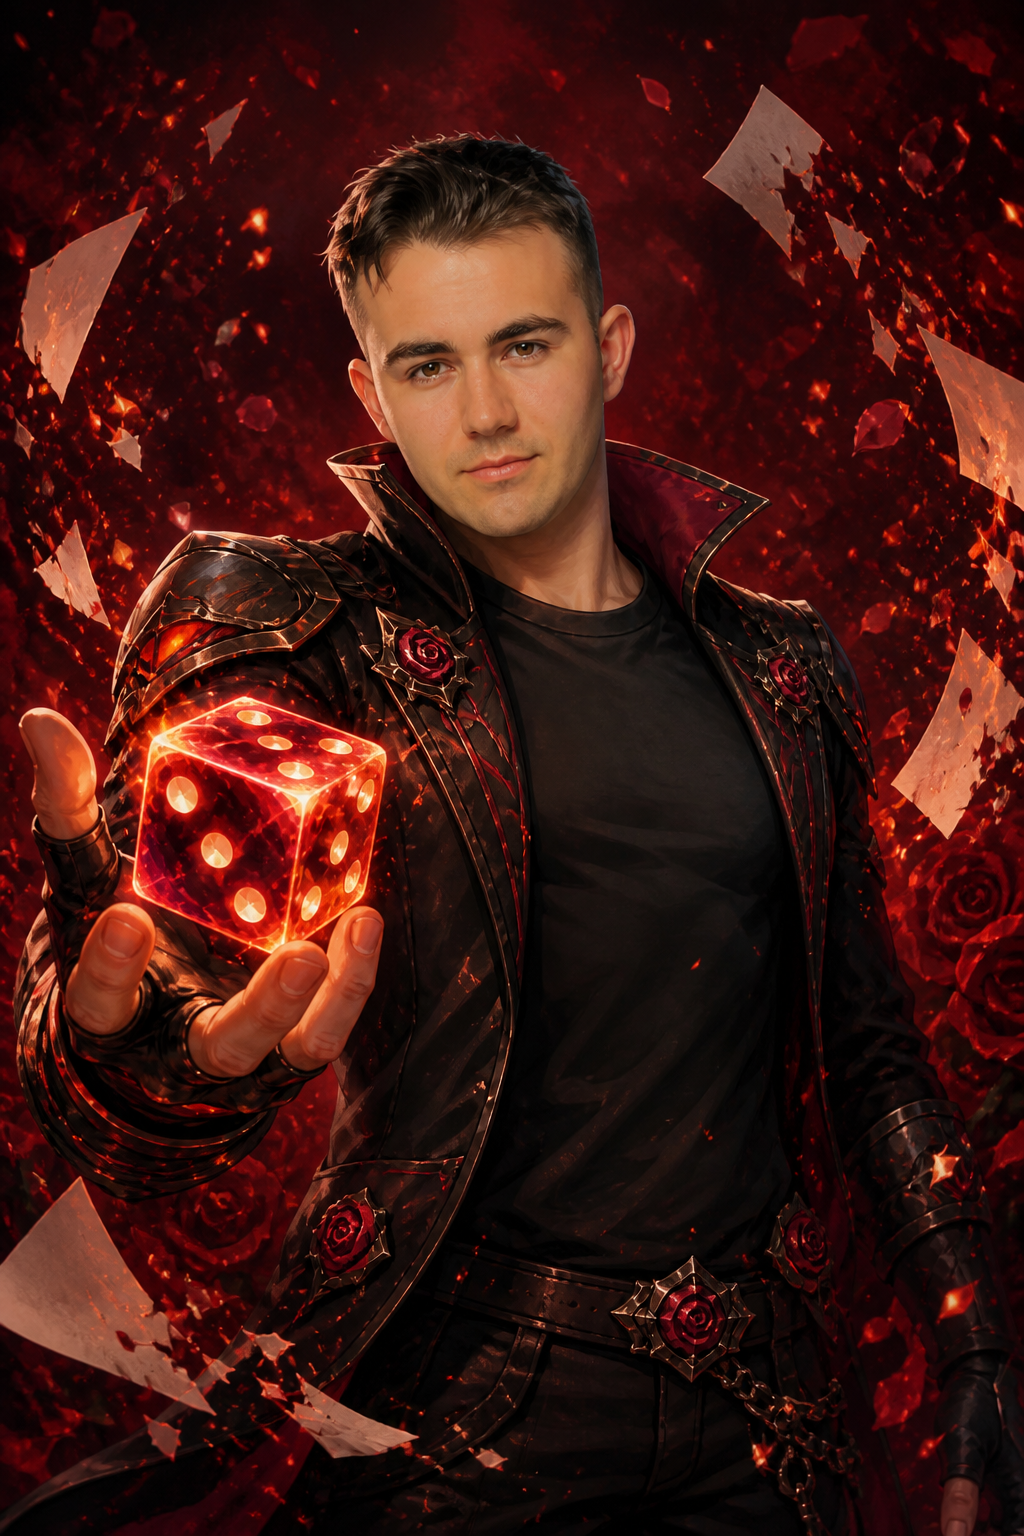
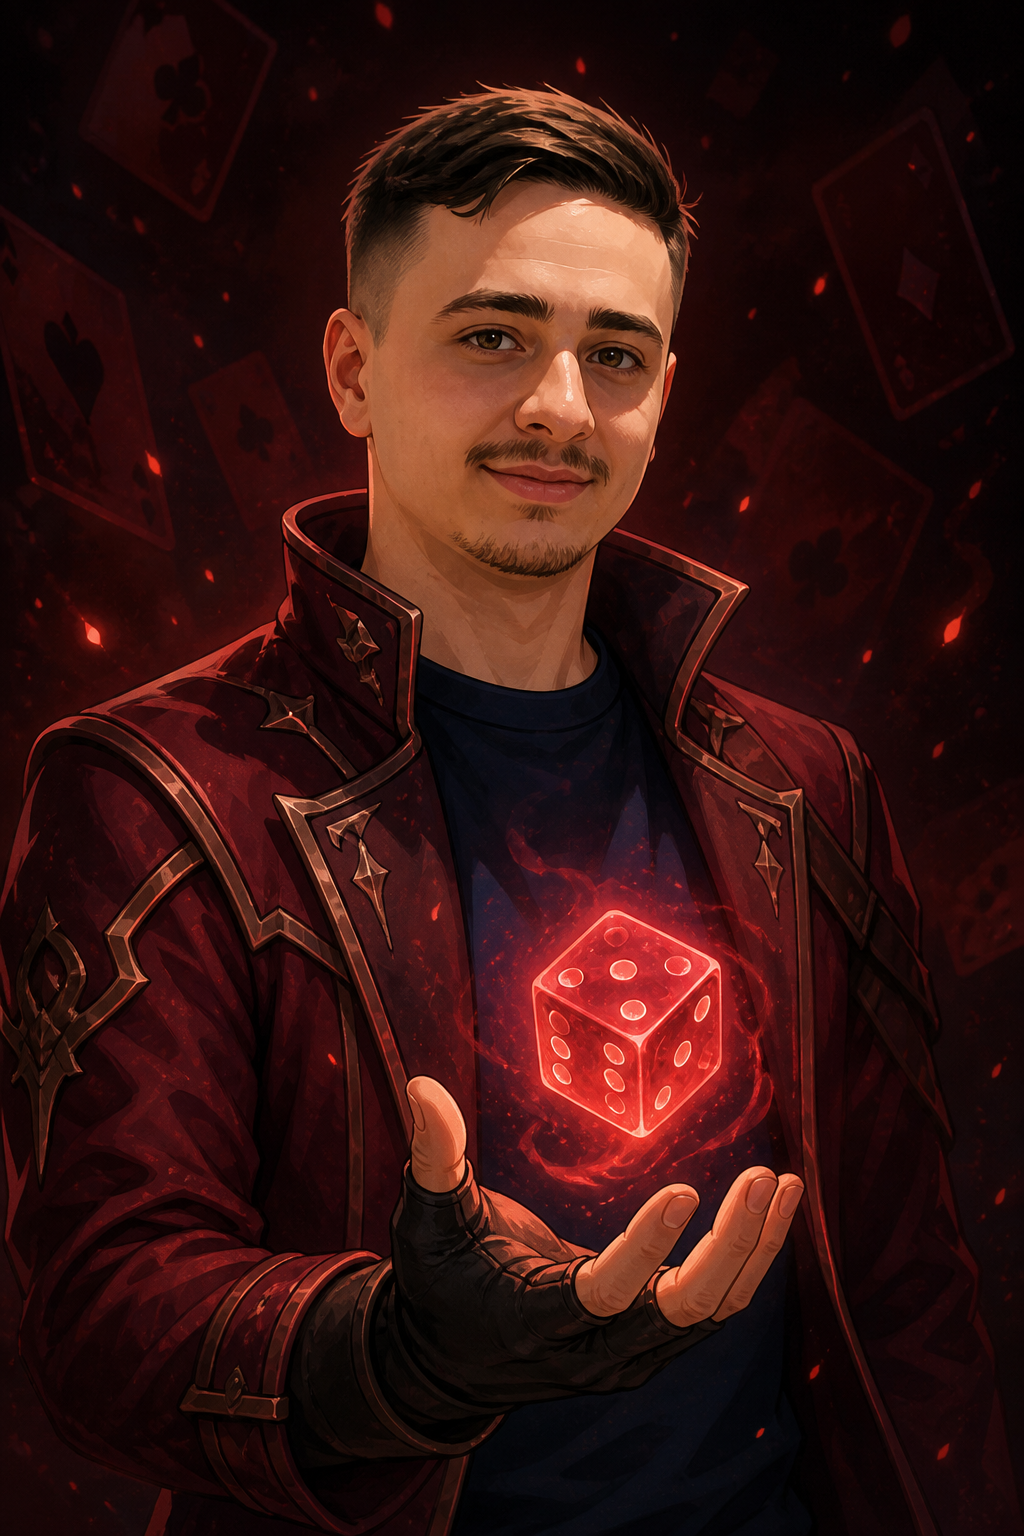
final final push

diff --git a/src/here_to_slay/ui/pygame/art.py b/src/here_to_slay/ui/pygame/art.py
@@ -336,10 +336,21 @@ class ArtLibrary:
                             return candidate
         return None
 
-    def named_art(self, *relative: str, size: tuple[int, int]) -> pygame.Surface | None:
-        """Load pack-relative artwork that is not a playable card (trophy, UI)."""
+    def named_art(
+        self,
+        *relative: str,
+        size: tuple[int, int],
+        fit: bool = False,
+    ) -> pygame.Surface | None:
+        """Load pack-relative artwork that is not a playable card (trophy, UI).
+
+        ``fit=True`` scales the image to sit entirely inside ``size``
+        (letterbox). The default still cover-crops, which is what playable
+        card faces want.
+        """
         width, height = max(4, size[0]), max(4, size[1])
         self._scan()
+        loader = self._load_fitted if fit else self._load_cropped
         for rel in relative:
             key = Path(rel).stem.lower()
             candidates: list[Path] = []
@@ -350,7 +361,7 @@ class ArtLibrary:
                 candidates.append(pack / rel)
             for path in candidates:
                 if path.is_file():
-                    loaded = self._load_cropped(path, width, height)
+                    loaded = loader(path, width, height)
                     if loaded is not None:
                         return loaded
         return None
@@ -414,6 +425,30 @@ class ArtLibrary:
         out.blit(scaled, (-(tw - width) // 2, -int((th - height) * 0.38)))
         return out
 
+    def _load_fitted(self, path: Path, width: int, height: int) -> pygame.Surface | None:
+        """Load and scale to fit entirely inside ``(width, height)``. Never crops."""
+        try:
+            raw = pygame.image.load(str(path))
+        except (pygame.error, OSError):
+            return None
+        if pygame.display.get_surface() is not None:
+            with contextlib.suppress(pygame.error):
+                raw = raw.convert_alpha()
+
+        sw, sh = raw.get_size()
+        if sw <= 0 or sh <= 0:
+            return None
+        scale = min(width / sw, height / sh)
+        tw, th = max(1, int(sw * scale)), max(1, int(sh * scale))
+        try:
+            scaled = pygame.transform.smoothscale(raw, (tw, th))
+        except (pygame.error, ValueError):
+            scaled = pygame.transform.scale(raw, (tw, th))
+
+        out = T.surface((width, height))
+        out.blit(scaled, ((width - tw) // 2, (height - th) // 2))
+        return out
+
     # -- housekeeping -----------------------------------------------------
 
     def preload(self, card_defs: Any, size: tuple[int, int]) -> int:
@@ -449,11 +484,16 @@ def library() -> ArtLibrary:
 
 
 def trophy_card(size: tuple[int, int]) -> pygame.Surface:
-    """Legitimația lui Andrei — the win trophy, not a playable card."""
+    """Legitimația lui Andrei — the win trophy, not a playable card.
+
+    Fitted, not cropped: the badge is landscape, and cover-cropping it into a
+    portrait box slices the gold frame and laurels off.
+    """
     surf = library().named_art(
         "images/cards/Legitimatia_lui_Andrei_Here_to_Vibe.png",
         "images/by_type/misc/legitimatia_andrei.png",
         size=size,
+        fit=True,
     )
     if surf is not None:
         return surf

diff --git a/src/here_to_slay/ui/pygame/overlays.py b/src/here_to_slay/ui/pygame/overlays.py
@@ -1186,8 +1186,8 @@ class GameOverOverlay(Overlay):
         winner_colour: tuple[int, int, int] = C.GOLD,
         turns: int = 0,
     ) -> None:
-        width = min(720, int(layout.width * 0.64))
-        height = min(720, int(layout.height * 0.88))
+        width = min(880, int(layout.width * 0.74))
+        height = min(760, int(layout.height * 0.90))
         super().__init__(pygame.Rect(
             (layout.width - width) // 2, (layout.height - height) // 2, width, height
         ))
@@ -1196,14 +1196,24 @@ class GameOverOverlay(Overlay):
         self.winner_colour = winner_colour
         self.rows = list(rows)
         self.turns = turns
-        card_w = min(210, int(width * 0.30))
-        card_h = int(card_w * 1.42)
+        body = self.body_rect
+        n_rows = max(1, len(self.rows))
+        # Slogan above, flavor + score rows + buttons below — leftover is the
+        # badge. Landscape ~8:5 so the gold frame and laurels stay in view.
+        reserved = 70 + 74 + 38 * n_rows + 56
+        avail_h = max(140, body.height - reserved)
+        avail_w = max(160, body.width - 24)
+        aspect = 1.6
+        card_w = min(avail_w, int(avail_h * aspect))
+        card_h = min(avail_h, max(90, int(card_w / aspect)))
+        if int(card_h * aspect) > avail_w:
+            card_w = avail_w
+            card_h = max(90, int(card_w / aspect))
         self.trophy_size = (card_w, card_h)
         self.trophy = trophy_card((card_w, card_h))
         self.fx = AnimationManager(cap=60)
         self.fx.add(ConfettiAnimation((layout.width, layout.height), 5.5, count=180))
 
-        body = self.body_rect
         self.buttons = [
             Button(pygame.Rect(body.left, body.bottom - 46, body.width // 2 - 6, 42),
                    L.PLAY_AGAIN, lambda: self.finish("restart"), primary=True,
@@ -1246,7 +1256,8 @@ class GameOverOverlay(Overlay):
                anchor="midtop", shadow=None, max_width=body.width - 16)
 
         pop = min(1.0, self.elapsed / 0.7)
-        scale = 0.42 + 0.58 * T.ease_out_back(pop, 1.4)
+        # Clamp the back-ease overshoot so the badge never leaves its box.
+        scale = min(1.0, 0.50 + 0.50 * T.ease_out_back(pop, 1.15))
         tw, th = self.trophy_size
         sw, sh = max(12, int(tw * scale)), max(16, int(th * scale))
         try:

diff --git a/tests/test_pygame_ui.py b/tests/test_pygame_ui.py
@@ -66,7 +66,7 @@ from here_to_slay.ui.pygame.animations import (
     die_face,
 )
 from here_to_slay.ui.pygame.app import GameSetup
-from here_to_slay.ui.pygame.art import library, procedural_art
+from here_to_slay.ui.pygame.art import library, procedural_art, trophy_card
 from here_to_slay.ui.pygame.atmosphere import Atmosphere, blit_card_sheen
 from here_to_slay.ui.pygame.card_renderer import (
     CARD_H,
@@ -293,6 +293,13 @@ def test_table_faces_are_full_art_and_hover_text_is_romanian(registry) -> None:
     mask = registry["base.item.mask_0"]
     assert L.card_name(mask) == "/0"
     assert library().has_art(mask)
+
+    bloodwing = registry["base.monster.bloodwing"]
+    assert L.card_name(bloodwing) == "E-DIE"
+    assert bloodwing.art and "bloodwing.png" in bloodwing.art
+    assert library().has_art(bloodwing)
+    path = library().path_for(bloodwing)
+    assert path is not None and path.name == "bloodwing.png"
 
     clear_card_cache()
     surf = render_card(hero, CARD_W, CARD_H)
@@ -637,6 +644,29 @@ def test_rules_pages_come_from_content(registry) -> None:
         assert victory.text in text, f"{victory.id} is missing from the rules page"
     assert str(registry.rules.turn.action_points_per_turn) in text
     assert str(registry.rules.setup.starting_hand) in text
+
+
+def test_trophy_card_fits_the_whole_badge(screen) -> None:
+    """Win trophy is a landscape badge; cover-crop would slice the gold frame."""
+    tall = trophy_card((90, 240))
+    assert tall.get_size() == (90, 240)
+    # Fitted letterbox: top/bottom of a tall box stay empty.
+    assert tall.get_at((45, 2))[3] == 0
+    assert tall.get_at((45, 237))[3] == 0
+    # The badge itself occupies the middle band.
+    mid = tall.get_at((45, 120))
+    assert mid[3] > 0
+
+
+def test_game_over_trophy_is_landscape(registry, screen) -> None:
+    layout = LayoutManager(1600, 900)
+    rows = [ScoreRow("Alice", "3 slain", colour=C.GOLD, winner=True)]
+    overlay = GameOverOverlay(layout, "Alice", rows, turns=4)
+    overlay.update(1.0)
+    overlay.draw(screen)
+    tw, th = overlay.trophy_size
+    assert tw > th
+    assert tw >= 360
 
 
 def test_every_overlay_draws(registry, screen) -> None:

diff --git a/assets/ref/here_to_vibe/ROSTER.md b/assets/ref/here_to_vibe/ROSTER.md
@@ -4,7 +4,7 @@ Source of truth for names, classes, and which original card each maps to.
 Decisions: [`QUESTIONS.md`](QUESTIONS.md). Glossary: [`GLOSSARY.md`](GLOSSARY.md).
 People: [`PEOPLE.md`](PEOPLE.md).
 
-**Status:** mapping locked 2026-08-27. Art started (5 besties + 6 persoane; E-DIE needs redo).
+**Status:** mapping locked 2026-08-27. Art started (E-DIE redone with Edi photo).
 
 Legend: `ok` = same mechanic as original · `changed` = different effect · `new` = not in base · `1×` = one copy (not the original 2×)
 
@@ -42,7 +42,7 @@ Legend: `ok` = same mechanic as original · `changed` = different effect · `new
 | Abyss Queen | `base.monster.abyss_queen` | **Paul-tergeist** | 3 persoane | 8+ / 6–7 / 5− sacrifici | +1 MB/s când un oponent aplică download/upload **pe aruncarea ta** | ok — art generated |
 | Anuran Cauldron | `base.monster.anuran_cauldron` | **Evelina „Perma-Buff”** | 3 persoane | 7+ / (no safe) / 6− sacrifici | +1 la fiecare np.random() | ok — art generated |
 | Corrupted Sabretooth | `base.monster.corrupted_sabretooth` | **Cristi Iri-MAI-ia** | 3 persoane | 9+ / 7–8 / 6− sacrifici | La o împrietenire reușită, mai tragi o barfă | ok — art generated |
-| Bloodwing | `base.monster.bloodwing` | **E-DIE** | 2 persoane | 9+ / 7–8 / 6− sacrifici | Cine te provoacă trebuie să arunce o barfă | needs-redo — last photo was Vlad |
+| Bloodwing | `base.monster.bloodwing` | **E-DIE** | 2 persoane | 9+ / 7–8 / 6− sacrifici | Cine te provoacă trebuie să arunce o barfă | ok — art generated |
 | Arctic Aries | `base.monster.arctic_aries` | **Alexan-DRAW** | 1 persoană | 10+ / 7–9 / 6− sacrifici | La activare reușită, tragi o barfă | ok — art generated |
 | Terratuga | `base.monster.terratuga` | **Andrei Dictator** | 2 persoane | 11+ / 7–10 / 6− sacrifici | Persoanele tale nu mai pot fi distruse | ok — art generated |
 | Malamammoth | `base.monster.malamammoth` | **Silviu „Gamemode 1”** | 2 persoane | 9+ / 6–8 / 5− discard 2 | Când joci un cheat sau hack, mai tragi o barfă | ok — art generated |

diff --git a/assets/ref/here_to_vibe/PEOPLE.md b/assets/ref/here_to_vibe/PEOPLE.md
@@ -15,7 +15,7 @@ Locked from Matei (2026-08-27):
 |-----------------|--------|-------|
 | Mihai „RNG-esus” | **Mihai** | Bestie, Titan Wyvern; art generated |
 | Cupi-Dan | **Dan** | Bestie, Crowned Serpent; art generated |
-| E-DIE | **Edi** | Bestie, Bloodwing; **needs-redo** (Vlad photo used by mistake) |
+| E-DIE | **Edi** | Bestie, Bloodwing; art generated |
 | Vl-ADD | **Vlad** | Bestie, Dark Dragon King; art generated |
 | Cristina „Insta-Cast” | **Cristina** | Bestie, Orthus; art generated |
 | Silviu „Gamemode 1” | **Silviu** | Bestie, Malamammoth; art generated |
@@ -59,7 +59,7 @@ Locked from Matei (2026-08-27):
 
 ## Distinct people — photos later
 
-Cupi-Dan (done), E-DIE (needs Edi photo), Cristina „Insta-Cast” (done), Silviu „Gamemode 1” (done),
+Cupi-Dan (done), E-DIE (done), Cristina „Insta-Cast” (done), Silviu „Gamemode 1” (done),
 and anyone else not listed as merged.
 
 ## Nickname clusters — do not merge yet

diff --git a/assets/ref/here_to_vibe/text/bloodwing.md b/assets/ref/here_to_vibe/text/bloodwing.md
@@ -6,18 +6,18 @@
 - vibe_name: E-DIE
 - class flavour: 2 persoane (no class)
 - person: Edi
-- status: needs-redo (wrong person — that photo was Vlad, not Edi)
+- status: generated (Edi photo, 2026-08-28)
 
 ## Ability
 
 9+ împrietenire · 7–8 safe · 6− sacrifică o persoană  
-Când cineva te provoacă (Șia all in), trebuie să arunce o barfă.
+Când cineva te provoacă, trebuie să arunce o barfă.
 
 ## Art notes
 
-Circular source photo only (marble hall + black discarded). Bestie: black
-tee under dark rose-ember jacket, glowing die (E-DIE), shattered discard
-cards. No card frame or title.
+Conference hall photo (Under Armour tee, AFCO lanyard, posters discarded).
+Bestie: mustache and goatee kept, navy tee under dark rose-ember jacket,
+glowing crimson die (E-DIE), discarded-card silhouettes. No card frame or title.
 
 ## Files
 
